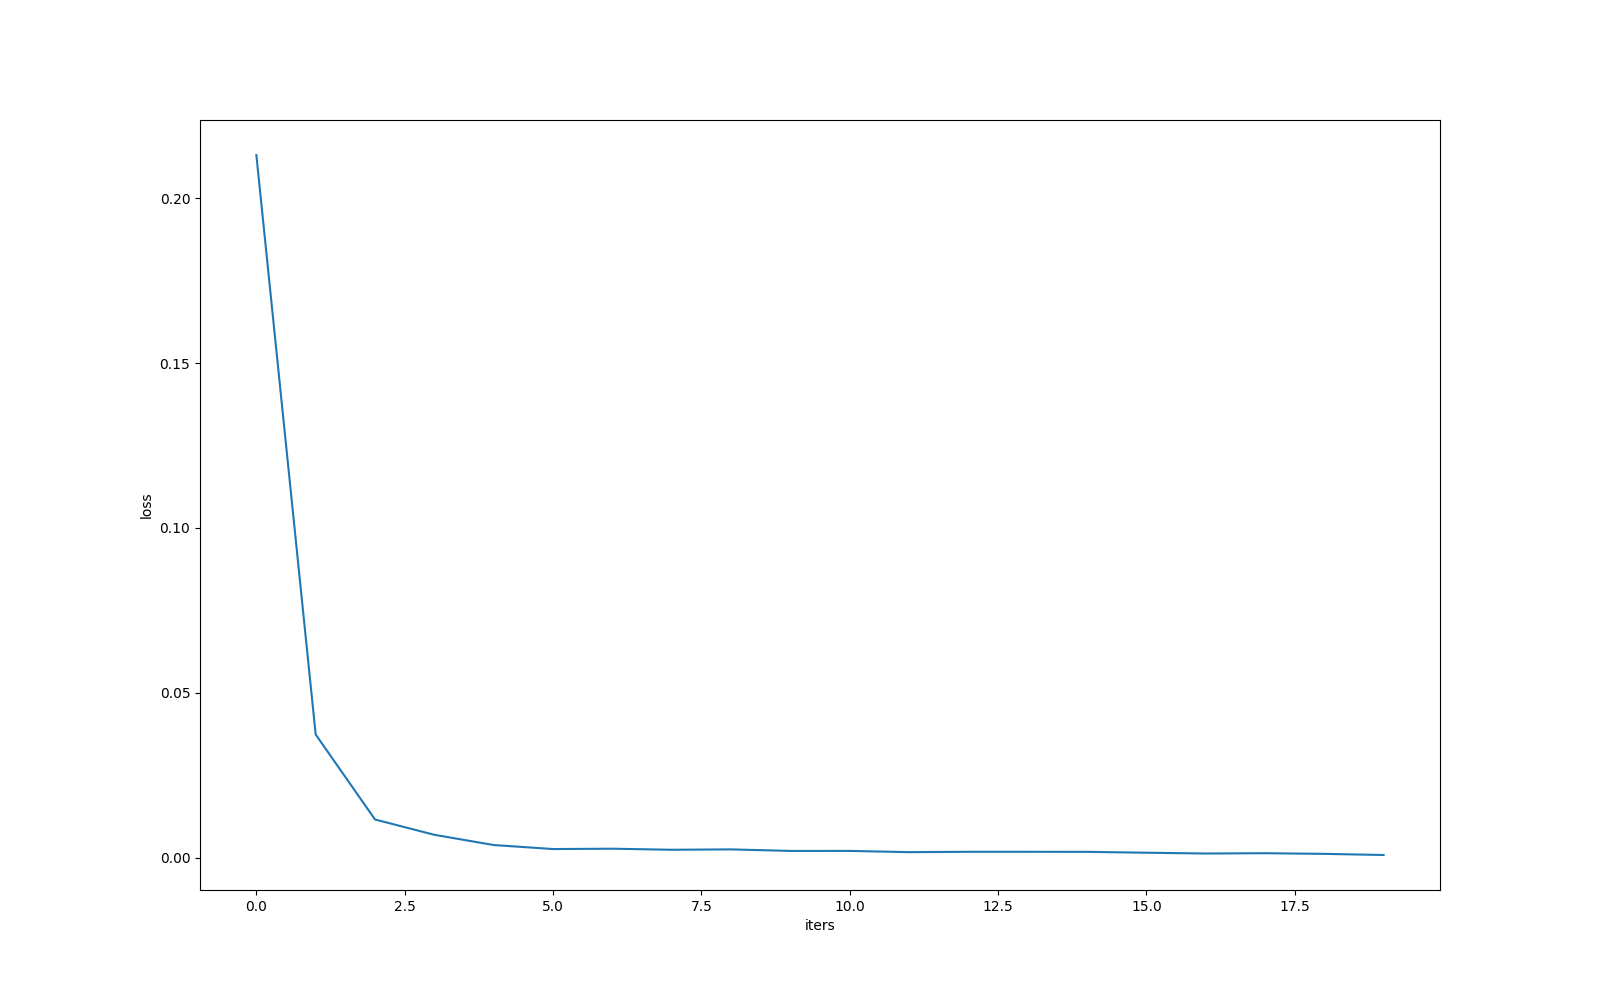
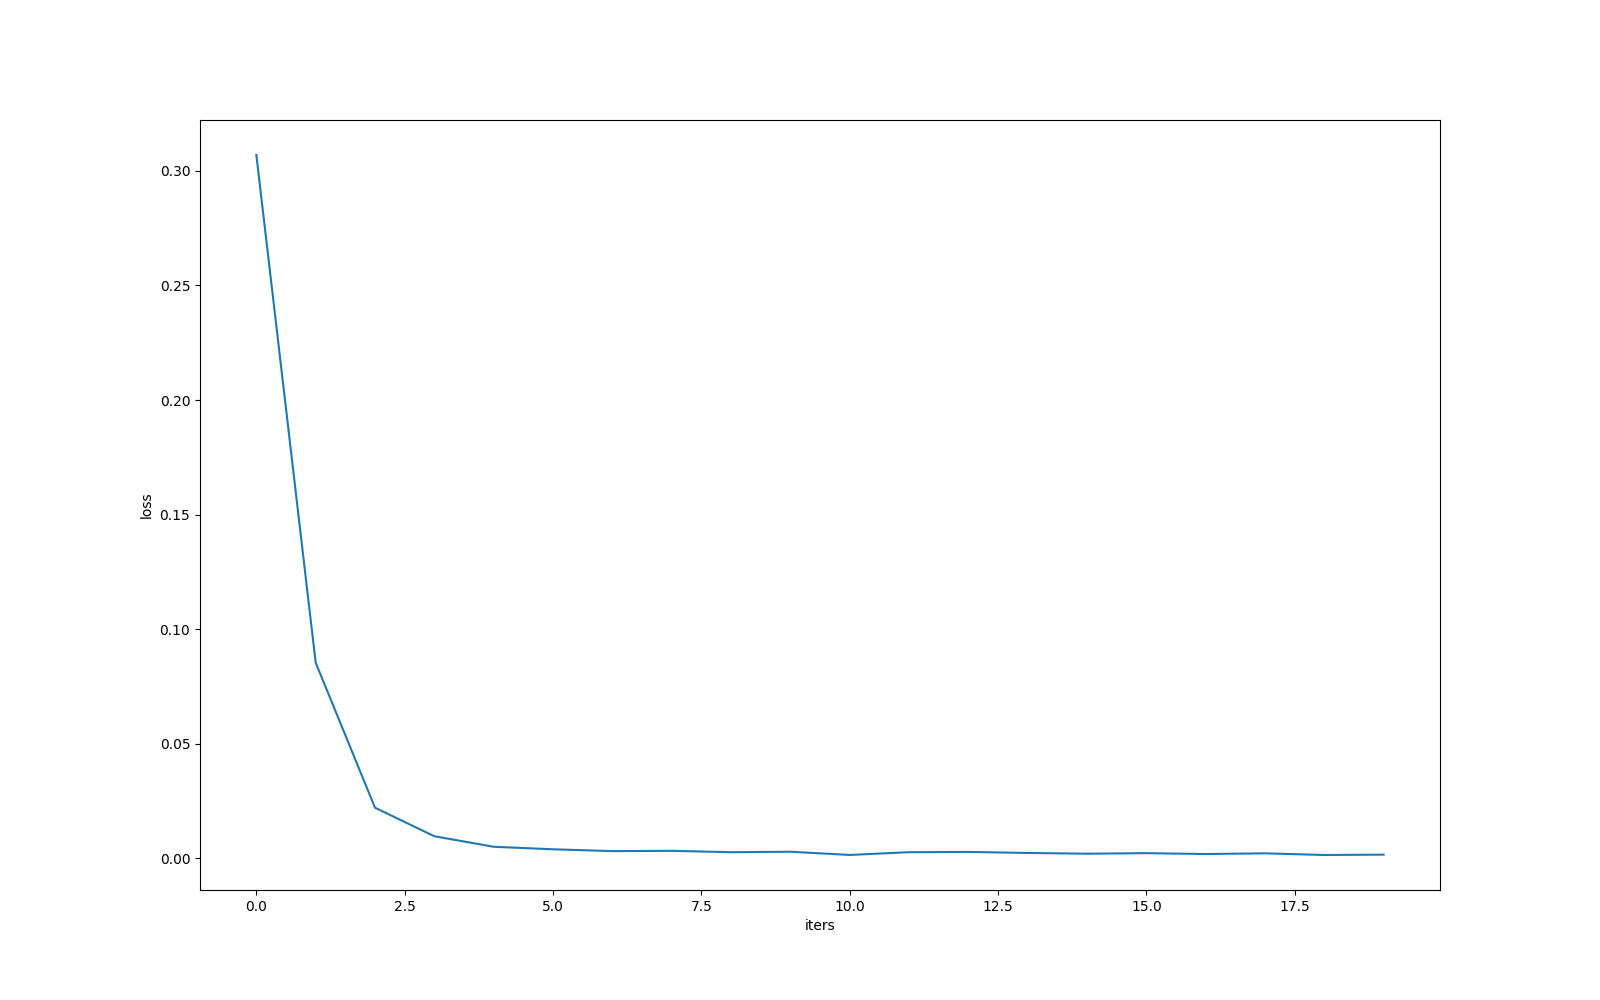
RNN

diff --git a/SeniorProject.py b/SeniorProject.py
@@ -2,16 +2,59 @@ import string
 import random
 import torch
 import torch.nn as nn
+import torch.optim as optim
 import matplotlib.pyplot as plt
 import numpy as np
 
-def get_random_seq():
-    seq_len = 128
+from RNN import RNNNet
+from torch.utils.data import DataLoader
 
-    t = np.arange(0, seq_len)
-    a = 2*np.pi*1.0/seq_len
-    b = 2*np.pi*np.random.rand()*5
-    seq = np.sin(a*t+b)
+from Dataset import SpectorgramDataset
+from DataExtraction import get_all_spectrograms
+
+#Load Dataset
+data = get_all_spectrograms()
+dataset = SpectorgramDataset(data)
+loader = DataLoader(dataset, batch_size=1, shuffle=True)
+
+input_size = dataset[0][0].shape[1] # number of mel bens
+model = RNNNet(input_size=input_size, hidden_size=128, num_classes=2)
+loss_func = nn.MSELoss()
+optimizer = optim.Adam(model.parameters(), lr=0.001)
+
+num_epochs = 10
+
+for epoch in range(num_epochs):
+    total_loss = 0
+    correct = 0
+    total = 0
+
+    for specs, labels in loader:
+        # specs: (batch, seq_len, input_size)
+        outputs = model(specs)  # (batch, num_classes)
+        loss = loss_func(outputs, labels)
+
+        optimizer.zero_grad()
+        loss.backward()
+        optimizer.step()
+
+        total_loss += loss.item()
+        _, predicted = torch.max(outputs, 1)
+        correct += (predicted == labels).sum().item()
+        total += labels.size(0)
+
+    acc = correct / total * 100
+    print(f"Epoch {epoch+1} | Loss: {total_loss:.4f} | Accuracy: {acc:.2f}%")
+
+'''
+def get_random_seq():
+
+    #seq_len = 128
+
+    #t = np.arange(0, seq_len)
+    #a = 2*np.pi*1.0/seq_len
+    #b = 2*np.pi*np.random.rand()*5
+    #seq = np.sin(a*t+b)
     return seq
 
 def get_input_and_target():
@@ -98,3 +141,4 @@ plt.xlabel("iters")
 plt.ylabel("loss")
 plt.plot(all_losses)
 plt.savefig("Training Loss Curve")
+'''

diff --git a/DataExtraction.py b/DataExtraction.py
@@ -12,8 +12,8 @@ CLICK_FILES = os.path.join('Data', 'Clicks')
 n_fft = 2048
 hop_length = 512
 n_mels = 200
-cutoff_freq = 36000
 sample_rate = 48000
+cutoff_freq = sample_rate // 2 #36000  heloo
 duration = 1 #seconds
 min_samples = int(duration * sample_rate)
 
@@ -54,12 +54,6 @@ def loadDataset(directory, label):
             dataset.append((spec.numpy(), lbl))
     return dataset
 
-whistle_data = loadDataset(WHISTLE_FILES, label=1)
-click_data = loadDataset(CLICK_FILES, label=0)
-data = whistle_data + click_data
-
-print(f"Loaded {len(whistle_data)} Whistles, {len(click_data)} Clicks.")
-
 def plot_all_spectrograms(dataset, cols=4):
     rows = (len(dataset) + cols - 1) // cols
     plt.figure(figsize=(cols * 4, rows * 3))
@@ -74,4 +68,11 @@ def plot_all_spectrograms(dataset, cols=4):
     plt.close()
     print("Saved spectrogram grid to spectrogram_grid.png")
 
-plot_all_spectrograms(data)
+def get_all_spectrograms():
+    whistle_data = loadDataset(WHISTLE_FILES, label=1)
+    click_data = loadDataset(CLICK_FILES, label=0)
+    data = whistle_data + click_data
+    print(f"Loaded {len(whistle_data)} Whistles, {len(click_data)} Clicks.")
+    return data
+
+plot_all_spectrograms(get_all_spectrograms())

diff --git a/RNN.py b/RNN.py
@@ -1,0 +1,15 @@
+import torch.nn as nn
+import torch
+
+class RNNNet(nn.Module):
+    def __init__(self, input_size, hidden_size=100, num_classes=2):
+        super().__init__()
+        self.rnn = nn.RNN(input_size=input_size, hidden_size=hidden_size, batch_first=True)
+        self.fc = nn.Linear(hidden_size, input_size)
+
+    def forward(self, x):
+        #x: (batch, seq_len, input_size)
+        out, hidden = self.rnn(x)
+        final_hidden = hidden.squeeze(0)
+        out = self.fc(final_hidden)
+        return out

diff --git a/Dataset.py b/Dataset.py
@@ -1,0 +1,15 @@
+import torch
+from torch.utils.data import Dataset
+
+class SpectorgramDataset(Dataset):
+    def __init__(self, data):
+        self.data = data
+
+    def __len__(self):
+        return len(self.data)
+    
+    def __getitem__(self, index):
+        spec, label = self.data[index]
+        spec_tensor = torch.tensor(spec, dtype=torch.float32)
+        label_tensor = torch.tensor(label, dtype=torch.long)
+        return spec_tensor, label_tensor
